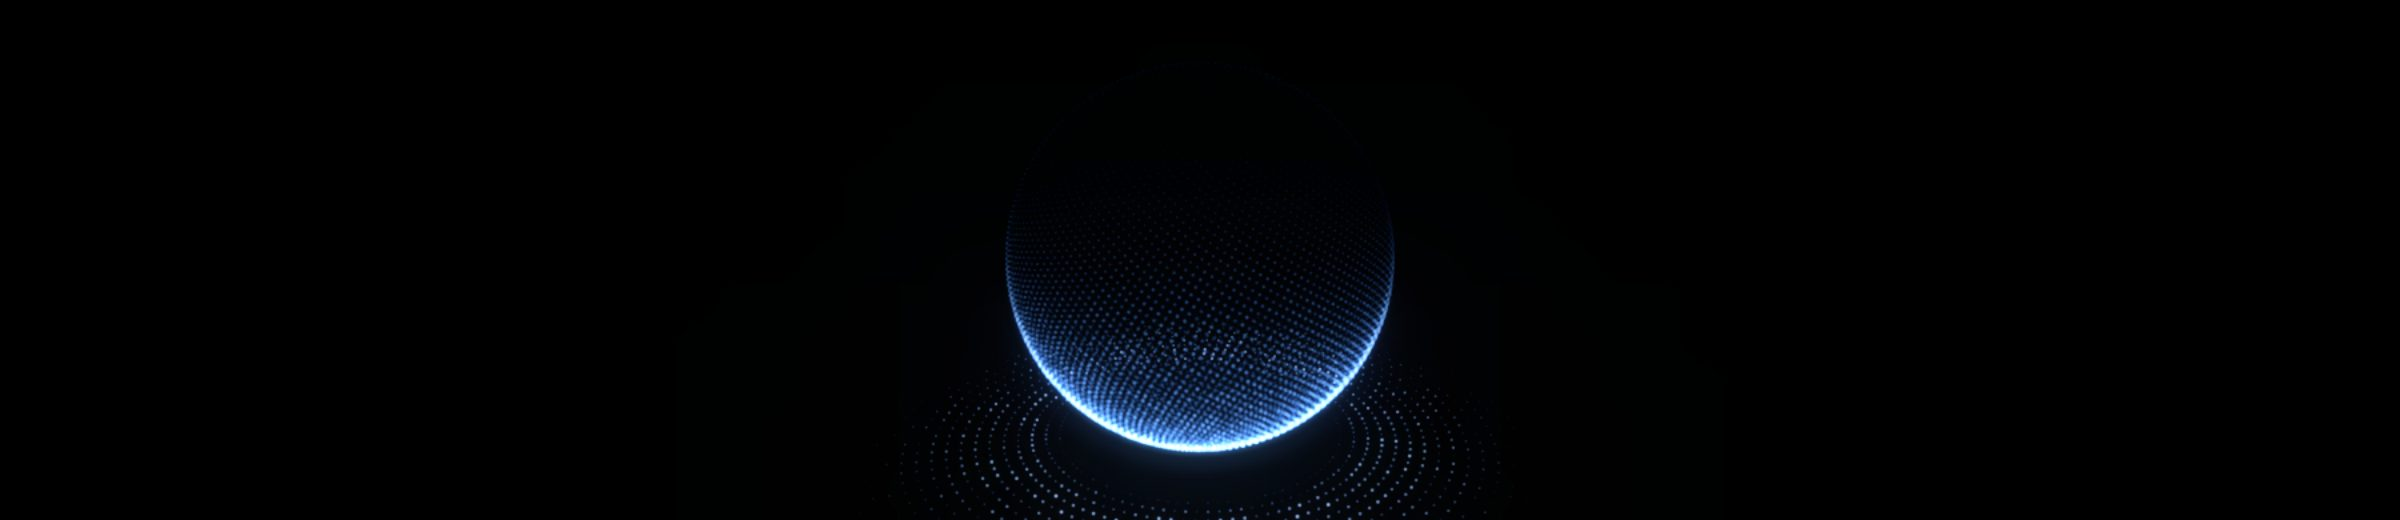
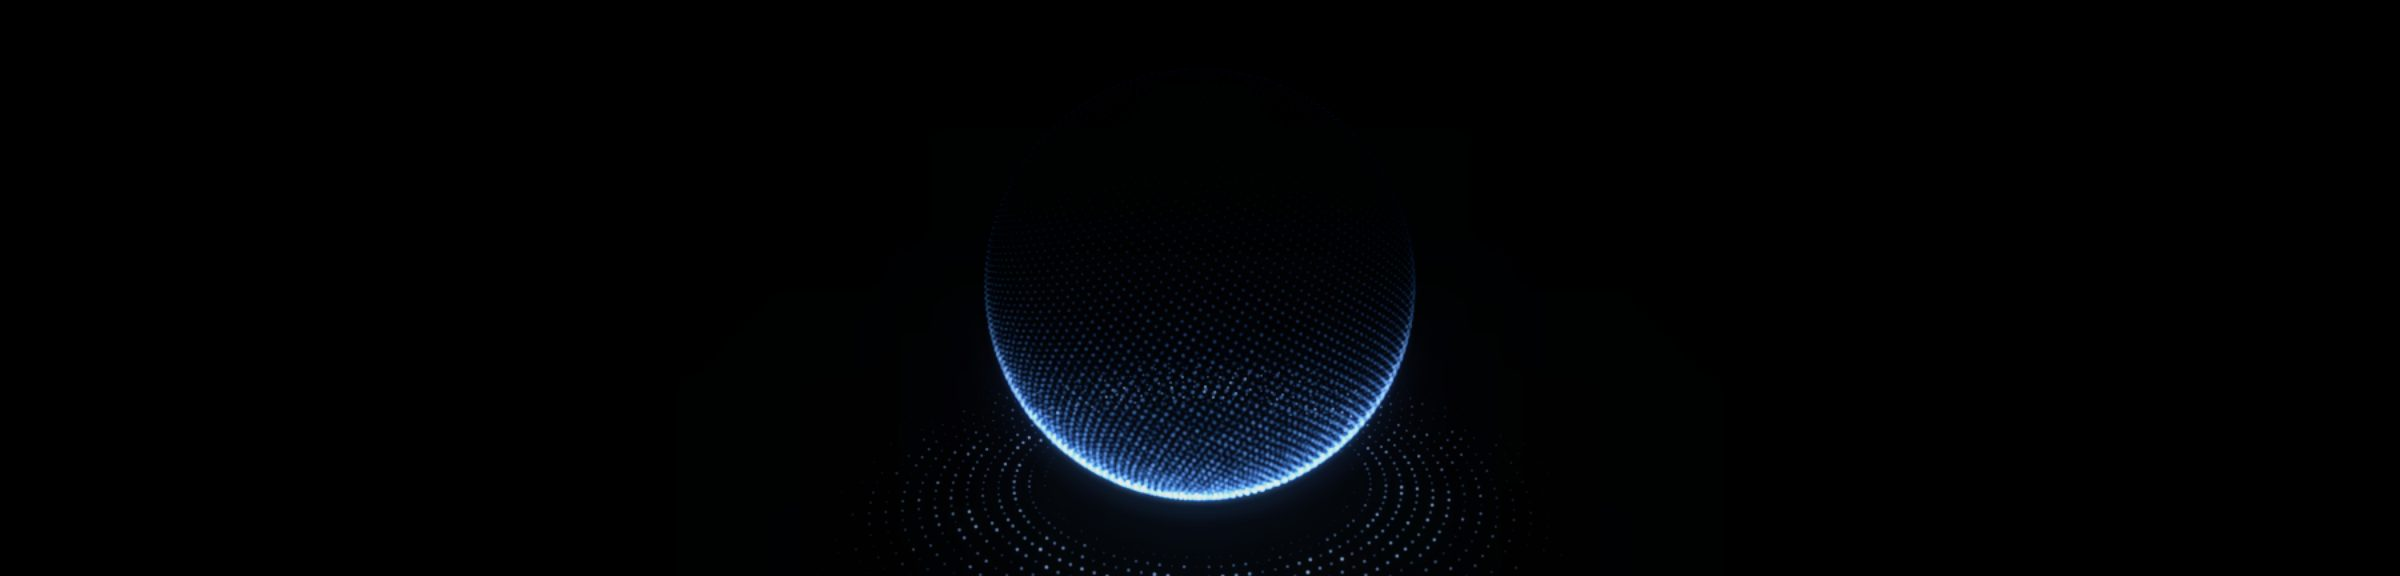
fix(customer,ui): legend round two: lines end on ringed nodes, room before the dot, mirrored under RTL
The legend pins to the panel's top inset and the sphere, larger, anchors at the bottom of the inline-end side. Each
leader line now runs from a dot set apart from the percent to a ringed node on its segment, and follows the panel's
direction (the legend sits at the inline start and the lines mirror under right-to-left), re-measuring when the
legend re-wraps or the language changes direction. The two darker segment chips are lifted to 3:1 or more on the
panel. The no-split note shows only when a holding has no price. Posters record what they were rendered from, and
presets.test.ts fails when a preset changes without a new poster.

Claude-Session: https://claude.ai/code/session_01CtHrS8UVvZpoYU9ohq194M

Changed region(s): [[0.4062, 0.4923, 0.5938, 1.0]]

diff --git a/apps/customer/src/screens/home/LitSphere.tsx b/apps/customer/src/screens/home/LitSphere.tsx
@@ -11,7 +11,7 @@ import './lit-spike.css';
 
 const PRESET = FX_PRESETS['sphere-home-blue'];
 
-type Leaders = { d: string; ends: Array<[number, number]> };
+type Leaders = { d: string; starts: Array<[number, number]>; ends: Array<[number, number]>; rtl: boolean };
 
 /** The sphere box's size in CSS pixels, for finding where its segments sit; follows the box as it mounts and resizes. */
 function useBoxSize() {
@@ -29,35 +29,56 @@ function useBoxSize() {
 }
 
 /**
- * Leader lines from each legend row to its segment: out of the row, across, then once down (or up) onto the segment.
- * Rows sit bottom-up in the order of their segments from the left, so no two lines cross.
+ * Leader lines from each legend row to its segment: out of the row's inline end, across, then once down (or up) onto
+ * the segment, ending on a ringed node there. Rows run from the segment nearest the legend (lowest row) to the farthest
+ * (top row), so no two lines cross; under right-to-left the legend and the lines mirror.
  */
 function useLeaders(panel: RefObject<HTMLDivElement | null>, sphere: HTMLDivElement | null, points: Array<[number, number]>) {
   const [leaders, setLeaders] = useState<Leaders | null>(null);
+  // the panel's size and direction: a legend that re-wraps, or a page that turns right-to-left, moves the lines
+  const [layout, setLayout] = useState('');
   const key = points.map(([x, y]) => `${Math.round(x)},${Math.round(y)}`).join(' ');
   // the points are a new array each render; the effect follows their rounded values and reads the latest ones
   const latest = useRef(points);
   latest.current = points;
   useLayoutEffect(() => {
     const host = panel.current;
+    if (!host) return;
+    const read = () => setLayout(`${host.clientWidth}x${host.clientHeight} ${getComputedStyle(host).direction}`);
+    read();
+    const observer = new ResizeObserver(read);
+    observer.observe(host);
+    for (const part of host.querySelectorAll('.home-lit-legend__part')) observer.observe(part);
+    // a language switch can turn the page right-to-left without resizing anything
+    const direction = new MutationObserver(read);
+    direction.observe(document.documentElement, { attributes: true, attributeFilter: ['dir', 'lang'] });
+    return () => {
+      observer.disconnect();
+      direction.disconnect();
+    };
+  }, [panel, key]);
+  useLayoutEffect(() => {
+    const host = panel.current;
     if (!host || !sphere || key === '') return setLeaders(null);
+    const rtl = layout.endsWith('rtl');
     const origin = host.getBoundingClientRect();
     const at = sphere.getBoundingClientRect();
     const targets = new Map(latest.current.map((point, i) => [String(i), point]));
     let d = '';
+    const starts: Leaders['starts'] = [];
     const ends: Leaders['ends'] = [];
     for (const row of host.querySelectorAll<HTMLElement>('[data-leader-from]')) {
       const target = targets.get(row.dataset.leaderFrom ?? '');
       if (!target) continue;
       const r = row.getBoundingClientRect();
-      const [startX, startY] = [r.right - origin.left, r.top + r.height / 2 - origin.top];
+      const [startX, startY] = [(rtl ? r.left : r.right) - origin.left, r.top + r.height / 2 - origin.top];
       const [x, y] = [at.left - origin.left + target[0], at.top - origin.top + target[1]];
-      // stop just short of the rim, so the line points at the light rather than drawing on it
-      d += `M${startX},${startY} H${x} V${y > startY ? y - 10 : y + 10} `;
-      ends.push([startX, startY]);
+      d += `M${startX},${startY} H${x} V${y} `;
+      starts.push([startX, startY]);
+      ends.push([x, y]);
     }
-    setLeaders({ d: d.trim(), ends });
-  }, [panel, sphere, key]);
+    setLeaders({ d: d.trim(), starts, ends, rtl });
+  }, [panel, sphere, key, layout]);
   return leaders;
 }
 
@@ -73,14 +94,20 @@ export function LitSphere({ portfolio, hidden }: { portfolio: Loadable<HomePortf
   const { el, ref, size } = useBoxSize();
   const look = isLook('lit');
   const parts = look && portfolio.status === 'ready' && !hidden ? sphereShares(portfolio.data.holdings) : null;
-  // holdings shown but not all priced: say why there is no split (with balances hidden, say nothing)
-  const unsplit = look && !parts && !hidden && portfolio.status === 'ready' && portfolio.data.holdings.length > 0;
+  // a holding without a price: say why there is no split (with balances hidden, say nothing)
+  const unsplit =
+    look &&
+    !parts &&
+    !hidden &&
+    portfolio.status === 'ready' &&
+    portfolio.data.holdings.some((h) => h.share === null || h.usdValue === null);
   const shares = parts ? sharesFromPercents(parts.map((p) => p.percent)) : null;
   const points = shares && size ? sphereCallouts(shares, size.w, size.h, PRESET.options) : [];
   const leaders = useLeaders(panel, el, points);
   if (!look) return null;
-  // the lowest legend row goes to the leftmost segment
-  const order = parts ? parts.map((_, i) => i).sort((a, b) => (points[a]?.[0] ?? a) - (points[b]?.[0] ?? b)) : [];
+  // the lowest legend row goes to the segment nearest the legend: the leftmost, or the rightmost under right-to-left
+  const near = (i: number) => (leaders?.rtl ? -1 : 1) * (points[i]?.[0] ?? i);
+  const order = parts ? parts.map((_, i) => i).sort((a, b) => near(a) - near(b)) : [];
   const name = (part: SpherePart) => (part.kind === 'cash' ? t('Cash') : part.kind === 'other' ? t('Sphere other') : part.asset);
   return (
     <section className="home-lit-where" aria-labelledby="home-lit-where-title">
@@ -95,8 +122,11 @@ export function LitSphere({ portfolio, hidden }: { portfolio: Loadable<HomePortf
           <>
             <svg className="home-lit-leaders" aria-hidden="true">
               {leaders ? <path d={leaders.d} /> : null}
+              {leaders?.starts.map(([x, y], i) => (
+                <circle key={`from-${i}`} className="home-lit-leaders__from" cx={x} cy={y} r={2} />
+              ))}
               {leaders?.ends.map(([x, y], i) => (
-                <circle key={i} cx={x} cy={y} r={2} />
+                <circle key={`to-${i}`} className="home-lit-leaders__to" cx={x} cy={y} r={3.5} />
               ))}
             </svg>
             <ol className="home-lit-legend">

diff --git a/apps/customer/src/screens/home/lit-spike.css b/apps/customer/src/screens/home/lit-spike.css
@@ -4,8 +4,9 @@
  * navigation layer (the top bar); the actions panel is a solid content-layer panel; nothing blurred sits over the
  * moving sphere.
  */
-/* "Where your money is" (stage A's Alloc): a legend column on the start side, the sphere on the end side, bottom-
-   aligned and bleeding off the panel; bounded on wide screens and aligned with the column, so it stays an object */
+/* "Where your money is" (stage A's Alloc): a legend column pinned to the top of the inline-start side, the sphere
+   anchored at the bottom of the inline-end side and bleeding off it; bounded on wide screens and aligned with the
+   column. Under right-to-left it all mirrors (the leader lines follow in LitSphere.tsx). */
 [data-look='lit'] .home-lit-where {
   margin-block-start: var(--if-space-4);
 }
@@ -17,16 +18,13 @@
   overflow: hidden;
   border-radius: var(--lit-radius-panel);
   background: var(--lit-solid-bg);
-  /* the canvas and the lines are physical, so the panel is too; text inside keeps its own direction */
-  direction: ltr;
 }
 [data-look='lit'] .home-lit-sphere {
   position: absolute;
-  inset-block-start: -1.625rem;
-  /* beside the legend on a phone, centred in the panel once it is wide enough */
-  inset-inline-start: max(7rem, calc(50% - 7.1875rem));
-  inline-size: 14.375rem;
-  block-size: 16.375rem;
+  inset-block-end: -1.5rem;
+  inset-inline-end: -1rem;
+  inline-size: 16rem;
+  block-size: 18rem;
   /* the objects draw on black: screened onto the panel, the black drops out; the bloom's faint haze then fades out
      at the box's sides instead of ending on a straight edge (any opaque role works as a mask) */
   mix-blend-mode: screen;
@@ -46,8 +44,14 @@
   stroke: var(--lit-text-3);
   stroke-width: 1;
 }
-[data-look='lit'] .home-lit-leaders circle {
+[data-look='lit'] .home-lit-leaders__from {
   fill: var(--lit-text-1);
+}
+/* the node on the segment: a ring, so the light shows through it */
+[data-look='lit'] .home-lit-leaders__to {
+  fill: var(--lit-solid-bg);
+  stroke: var(--lit-text-1);
+  stroke-width: 1.5;
 }
 [data-look='lit'] .home-lit-legend {
   position: absolute;
@@ -56,10 +60,10 @@
   padding: 0;
   list-style: none;
 }
-/* rows from the bottom up (--row 0 is the lowest), one every 3rem, so four fit the panel's height */
+/* rows pinned to the top inset, one every 3rem; --row 0 (the segment nearest the legend) is the lowest */
 [data-look='lit'] .home-lit-legend__part {
   position: absolute;
-  inset-block-end: calc(1.75rem + var(--row) * 3rem);
+  inset-block-start: calc(var(--if-space-4) + (var(--rows) - 1 - var(--row)) * 3rem);
   inset-inline-start: var(--if-space-4);
   inline-size: 6.5rem;
   display: flex;
@@ -73,6 +77,8 @@
   font: 500 var(--if-text-xs) / var(--if-leading-xs) var(--lit-font-ui);
   color: var(--lit-text-1);
   white-space: nowrap;
+  /* room between the figure and the leader's start dot */
+  padding-inline-end: var(--if-space-2);
 }
 [data-look='lit'] .home-lit-legend__name {
   flex: 1;
@@ -98,9 +104,9 @@
   margin: 0;
   font: var(--if-text-xs) / var(--if-leading-xs) var(--lit-font-ui);
   color: var(--lit-text-2);
-  direction: initial;
 }
-/* each chip is its segment's colour, as objects/sphere.ts draws them: accent, hot, then the accent darker twice */
+/* each chip keys its segment (objects/sphere.ts: accent, hot, then the accent darker twice); the darker two are lifted
+   towards the accent so every chip keeps 3:1 or more on the panel */
 [data-look='lit'] .home-lit-legend__chip {
   flex: none;
   inline-size: 0.4375rem;
@@ -111,10 +117,10 @@
   background: var(--lit-accent-hot);
 }
 [data-look='lit'] [data-seg='2'] .home-lit-legend__chip {
-  background: color-mix(in srgb, var(--lit-accent) 50%, var(--lit-page));
+  background: color-mix(in srgb, var(--lit-accent) 85%, var(--lit-page));
 }
 [data-look='lit'] [data-seg='3'] .home-lit-legend__chip {
-  background: color-mix(in srgb, var(--lit-accent) 28%, var(--lit-page));
+  background: color-mix(in srgb, var(--lit-accent) 70%, var(--lit-page));
 }
 
 /* the navigation layer: the one blurred surface (over scrolling page content, never over the sphere) */

diff --git a/packages/ui/src/lit/fx/posters/presets.test.ts b/packages/ui/src/lit/fx/posters/presets.test.ts
@@ -1,4 +1,4 @@
-import { existsSync, statSync } from 'node:fs';
+import { existsSync, readFileSync, statSync } from 'node:fs';
 import { describe, expect, it } from 'vitest';
 import { FX_PRESETS } from './presets.js';
 
@@ -9,6 +9,17 @@ describe('light object posters', () => {
       expect(existsSync(file), `${name}.jpg is missing: run pnpm --filter @intafaced/ui fx:posters`).toBe(true);
       // a poster is a small image, never a stray full-resolution capture
       expect(statSync(file).size).toBeLessThan(120_000);
+    }
+  });
+
+  it('has posters rendered from the presets as they are now', () => {
+    for (const [name, preset] of Object.entries(FX_PRESETS)) {
+      const file = new URL(`./${name}.json`, import.meta.url);
+      expect(existsSync(file), `${name}.json is missing: run pnpm --filter @intafaced/ui fx:posters`).toBe(true);
+      const rendered: unknown = JSON.parse(readFileSync(file, 'utf8'));
+      expect(rendered, `${name}.jpg is older than its preset: run pnpm --filter @intafaced/ui fx:posters`).toEqual(
+        JSON.parse(JSON.stringify(preset)),
+      );
     }
   });
 });

diff --git a/packages/ui/fx-lab/main.tsx b/packages/ui/fx-lab/main.tsx
@@ -29,6 +29,8 @@ const all: Array<{ [K in FxKind]: { kind: K; w: number; h: number; options: FxKi
 const only = q.get('kind');
 const presetName = q.get('preset') as keyof typeof FX_PRESETS | null;
 const preset = presetName ? FX_PRESETS[presetName] : null;
+// posters.mjs records what each poster was rendered from (posters/<name>.json, checked by presets.test.ts)
+(window as unknown as { __fxPreset: (name: string) => unknown }).__fxPreset = (name) => FX_PRESETS[name as keyof typeof FX_PRESETS] ?? null;
 const shown = (preset ? [{ kind: preset.kind, w: preset.width, h: preset.height, options: preset.options }] : all)
   .filter((o) => !only || o.kind === only)
   .map((o) => ({ ...o, w: Number(q.get('w') ?? o.w), h: Number(q.get('h') ?? o.h) }));

diff --git a/packages/ui/src/lit/fx/posters/presets.ts b/packages/ui/src/lit/fx/posters/presets.ts
@@ -25,7 +25,7 @@ function preset<K extends FxKind>(p: FxPreset<K>): FxPreset<K> {
 
 export const FX_PRESETS = {
   /** Home: "Where your money is", the sphere lit from below beside its legend; mood 0 until the screen passes today's change. */
-  'sphere-home-blue': preset({ kind: 'sphere', width: 1200, height: 260, options: { ...LIT_BLUE, mood: 0, dist: 5.1, y: 0.02 } }),
+  'sphere-home-blue': preset({ kind: 'sphere', width: 1200, height: 288, options: { ...LIT_BLUE, mood: 0, dist: 5.1, y: 0.02 } }),
 } as const;
 
 export type FxPresetName = keyof typeof FX_PRESETS;
